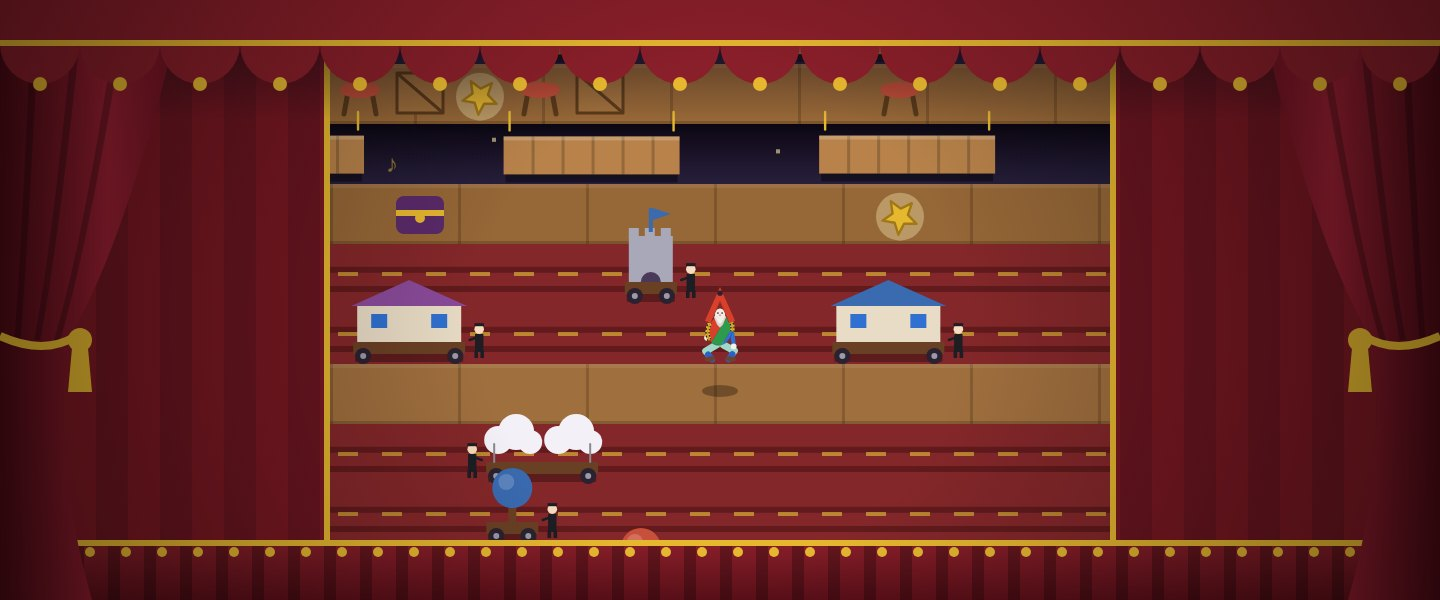
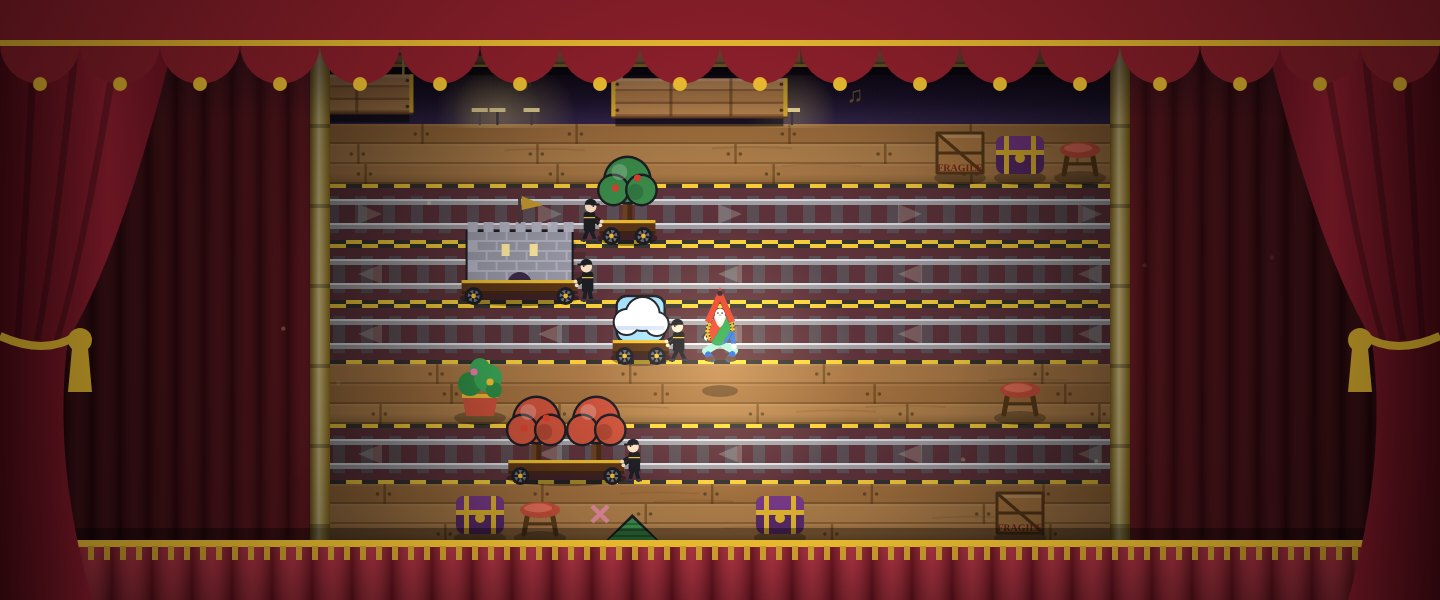
Traversée : nouveaux décors
Claude-Session: https://claude.ai/code/session_01VvPzovv9M4HU3UF5ZMQjNa

diff --git a/traversee.html b/traversee.html
@@ -2412,72 +2412,116 @@ addEventListener('keydown', e => {
   const k = e.key; if (k === 'ArrowLeft' || k === 'q') hop(-1, 0); else if (k === 'ArrowRight' || k === 'd') hop(1, 0); else if (k === 'ArrowDown' || k === 's') hop(0, -1); else if (k === 'ArrowUp' || k === 'z') hop(0, 1);
 });
 // ---------- the stage seen from the flies ----------
+function hsh(a) { a = (a ^ 61) ^ (a >>> 16); a = a + (a << 3); a = a ^ (a >>> 4); a = M.imul(a, 0x27d4eb2d); return ((a ^ (a >>> 15)) >>> 0) / 4294967296 }
 function drawStage() {
   X.save(); X.translate(0, -T);
-  X.fillStyle = '#2a0a12'; X.fillRect(0, 0, W, H);
   const c = cell(), x0 = fx0(), fw = cols() * c;
-  for (let x = 0; x < W; x += 16) { X.fillStyle = x % 32 ? '#6a1520' : '#7a1822'; X.fillRect(x, 0, 16, H) }
+  // wings: heavy velvet curtains with folds
+  for (const side of [0, 1]) {
+    const a = side ? x0 + fw : 0, w = side ? W - a : x0; if (w <= 0) continue;
+    const g = X.createLinearGradient(a, 0, a + w, 0); g.addColorStop(0, side ? '#7a1822' : '#3a0810'); g.addColorStop(1, side ? '#3a0810' : '#7a1822'); X.fillStyle = g; X.fillRect(a, 0, w, H);
+    for (let x = a + 4; x < a + w; x += 14) { const fg = X.createLinearGradient(x, 0, x + 14, 0); fg.addColorStop(0, 'rgba(0,0,0,.28)'); fg.addColorStop(.5, 'rgba(255,120,130,.12)'); fg.addColorStop(1, 'rgba(0,0,0,.28)'); X.fillStyle = fg; X.fillRect(x, 0, 14, H) }
+  }
   if (!PL) { X.restore(); return }
   const r0 = M.floor(camR - (H - baseY()) / c) - 2, r1 = M.ceil(camR + baseY() / c) + 2;
   X.save(); X.beginPath(); X.rect(x0, 0, fw, H); X.clip();
   for (let r = r0; r <= r1; r++) {
-    const L = LN[r], y = rowY(r);
+    const L = LN[r], y = rowY(r), top = y - c;
     if (!L || L.type === 'safe') {
-      X.fillStyle = r % 2 ? '#8a5632' : '#7e4e2c'; X.fillRect(x0, y - c, fw, c);
-      X.fillStyle = 'rgba(0,0,0,.22)'; X.fillRect(x0, y - 1.5, fw, 1.5); for (let x = x0 + (r % 3) * 21; x < x0 + fw; x += 64) X.fillRect(x, y - c, 1.5, c);
-      X.fillStyle = 'rgba(255,255,255,.07)'; X.fillRect(x0, y - c, fw, 2);
+      // stage boards: three planks, joints, nails and spike-tape marks
+      for (let i = 0; i < 3; i++) { const by = top + i * c / 3, h = c / 3; X.fillStyle = ['#94603a', '#8a5632', '#9a663e'][(r + i) % 3]; X.fillRect(x0, by, fw, h); X.fillStyle = 'rgba(255,230,190,.08)'; X.fillRect(x0, by, fw, 1); X.fillStyle = 'rgba(40,20,5,.35)'; X.fillRect(x0, by + h - 1, fw, 1);
+        for (let x = x0 + hsh(r * 7 + i) * 80; x < x0 + fw; x += 70 + hsh(r * 3 + i + x) * 40) { X.fillStyle = 'rgba(40,20,5,.45)'; X.fillRect(x, by, 1.2, h); circ('rgba(30,20,10,.6)', x - 3, by + h / 2, .9); circ('rgba(30,20,10,.6)', x + 3, by + h / 2, .9) } }
+      X.strokeStyle = 'rgba(80,40,15,.18)'; X.lineWidth = .8; for (let i = 0; i < 4; i++) { const gy = top + 4 + hsh(r * 11 + i) * (c - 8), gx = x0 + hsh(r * 13 + i) * fw; X.beginPath(); X.moveTo(gx, gy); X.quadraticCurveTo(gx + 20, gy - 1.5, gx + 40, gy); X.stroke() }
+      if (hsh(r * 5) < .45) { const mx = x0 + (hsh(r * 9) * cols() | 0) * c + c / 2, my = top + c * .5, mk = ['#f2c230', '#3070d0', '#f27ab0', '#2e9a4c'][r % 4]; X.save(); X.globalAlpha = .75; X.strokeStyle = mk; X.lineWidth = 2.2; X.beginPath(); X.moveTo(mx - 4, my - 4); X.lineTo(mx + 4, my + 4); X.moveTo(mx + 4, my - 4); X.lineTo(mx - 4, my + 4); X.stroke(); X.restore() }
+      const sg = X.createLinearGradient(0, y - 5, 0, y); sg.addColorStop(0, 'rgba(0,0,0,0)'); sg.addColorStop(1, 'rgba(0,0,0,.25)'); X.fillStyle = sg; X.fillRect(x0, y - 5, fw, 5);
     } else if (L.type === 'cart') {
-      X.fillStyle = AMB.apronDark; X.fillRect(x0, y - c, fw, c);
-      X.fillStyle = 'rgba(0,0,0,.35)'; X.fillRect(x0, y - c * .62, fw, 3); X.fillRect(x0, y - c * .3, fw, 3);
-      X.fillStyle = 'rgba(230,184,48,.55)'; for (let x = x0 + 4; x < x0 + fw; x += 22) X.fillRect(x, y - c / 2 - 1, 10, 2);
+      // dark wagon track with two steel rails and sleepers
+      X.fillStyle = '#2a2236'; X.fillRect(x0, top, fw, c);
+      X.save(); X.globalAlpha = .35; X.fillStyle = AMB.apronDark; X.fillRect(x0, top, fw, c); X.restore();
+      const off = (L.sp > 0 ? 1 : -1) * ((t * .5) % 14);
+      for (let x = x0 - 14 + off; x < x0 + fw + 14; x += 14) { X.fillStyle = '#3e3448'; X.fillRect(x, top + c * .2, 6, c * .62) }
+      for (const ry of [top + c * .3, top + c * .7]) { X.fillStyle = '#8a8a9a'; X.fillRect(x0, ry - 1.5, fw, 3); X.fillStyle = '#d0d0dc'; X.fillRect(x0, ry - 1.5, fw, 1) }
+      X.fillStyle = '#f2c230'; for (let x = x0; x < x0 + fw; x += 16) { X.fillRect(x, top, 8, 2); X.fillRect(x + 8, y - 2, 8, 2) }
+      X.fillStyle = '#1d1d24'; for (let x = x0 + 8; x < x0 + fw; x += 16) { X.fillRect(x, top, 8, 2); X.fillRect(x - 8, y - 2, 8, 2) }
+      // direction arrows painted on the floor
+      X.save(); X.globalAlpha = .18; X.fillStyle = '#fff'; for (let x = x0 + 20; x < x0 + fw; x += 90) { const d = L.sp > 0 ? 1 : -1; poly('#fff', [x - 6 * d, top + c / 2 - 5, x + 6 * d, top + c / 2, x - 6 * d, top + c / 2 + 5]) } X.restore();
     } else {
-      const g = X.createLinearGradient(0, y - c, 0, y); g.addColorStop(0, '#05030c'); g.addColorStop(1, '#141030'); X.fillStyle = g; X.fillRect(x0, y - c, fw, c);
-      X.fillStyle = 'rgba(255,240,180,.5)'; for (let i = 0; i < 5; i++) { const sx = x0 + ((r * 53 + i * 71) % fw), sy = y - c * .3 - (i % 3) * 7; X.fillRect(sx, sy + M.sin(t * .05 + i) * 1.5, 2, 2) }
-      if (r % 2) { X.save(); X.globalAlpha = .45; X.fillStyle = '#e6b830'; txt('♪', x0 + ((r * 37) % fw), y - 9, 12, '#e6b830', 'center', false); X.restore() }
+      // the orchestra pit: deep, with music stand lamps and rising notes
+      const g = X.createLinearGradient(0, top, 0, y); g.addColorStop(0, '#020108'); g.addColorStop(.6, '#0e0a24'); g.addColorStop(1, '#1c1440'); X.fillStyle = g; X.fillRect(x0, top, fw, c);
+      for (let i = 0; i < 4; i++) { const lx = x0 + ((hsh(r * 17 + i) * fw + 30) % fw), ly = y - 6; X.save(); X.globalAlpha = .22 + M.sin(t * .05 + i + r) * .05; const lg = X.createRadialGradient(lx, ly, 1, lx, ly, 22); lg.addColorStop(0, 'rgba(255,220,140,.9)'); lg.addColorStop(1, 'rgba(255,220,140,0)'); X.fillStyle = lg; X.fillRect(lx - 22, ly - 22, 44, 30); X.restore(); line('#2a2440', 1.2, [lx, ly, lx, ly + 6]); X.fillStyle = '#ffe6a0'; X.fillRect(lx - 4, ly - 2, 8, 2) }
+      for (let i = 0; i < 3; i++) { const k = ((t * .006 + hsh(r * 23 + i)) % 1), nx = x0 + hsh(r * 29 + i) * fw + M.sin(t * .04 + i) * 6; X.save(); X.globalAlpha = (1 - k) * .55; txt(i % 2 ? '♪' : '♫', nx, y - 4 - k * (c - 6), 11, '#e6b830', 'center', false); X.restore() }
+      X.fillStyle = 'rgba(230,184,48,.6)'; X.fillRect(x0, top, fw, 1.5); X.fillStyle = 'rgba(0,0,0,.6)'; X.fillRect(x0, top + 1.5, fw, 4);
     }
   }
-  // act ambiance
   X.save(); X.globalCompositeOperation = 'soft-light'; X.globalAlpha = .45; X.fillStyle = `rgb(${AMB.spot})`; X.fillRect(x0, 0, fw, H); X.restore();
   X.restore();
-  X.strokeStyle = '#e6b830'; X.lineWidth = 3; X.beginPath(); X.moveTo(x0 - 1.5, 0); X.lineTo(x0 - 1.5, H); X.moveTo(x0 + fw + 1.5, 0); X.lineTo(x0 + fw + 1.5, H); X.stroke();
+  // gilded columns framing the stage
+  for (const px of [x0 - 5, x0 + fw + 5]) { const g = X.createLinearGradient(px - 5, 0, px + 5, 0); g.addColorStop(0, '#8a6a1a'); g.addColorStop(.45, '#ffe9a0'); g.addColorStop(1, '#a07a1a'); X.fillStyle = g; X.fillRect(px - 5, 0, 10, H); X.fillStyle = 'rgba(0,0,0,.25)'; for (let yy = (camR * cell()) % 40; yy < H; yy += 40) X.fillRect(px - 5, yy, 10, 2) }
   X.restore();
 }
 function drawCrowd() {}
 function drawValance() {}
 function drawBatten() {}
 function drawProp(x, y, c, k) {
-  if (k % 3 === 0) { X.fillStyle = '#a0703c'; X.fillRect(x - 12, y - 24, 24, 21); X.strokeStyle = '#5a3a1a'; X.lineWidth = 1.5; X.strokeRect(x - 11.5, y - 23.5, 23, 20); X.beginPath(); X.moveTo(x - 11, y - 23); X.lineTo(x + 11, y - 4); X.stroke() }
-  else if (k % 3 === 1) { X.fillStyle = '#5a2a6a'; X.beginPath(); X.roundRect(x - 12, y - 22, 24, 19, 4); X.fill(); X.fillStyle = '#e6b830'; X.fillRect(x - 12, y - 15, 24, 3); circ('#e6b830', x, y - 11, 2.5) }
-  else { line('#5a3a1a', 2.5, [x - 8, y - 3, x - 6, y - 14, x + 6, y - 14, x + 8, y - 3]); X.fillStyle = '#c8503a'; X.beginPath(); X.ellipse(x, y - 15, 10, 4, 0, 0, 6.29); X.fill() }
+  X.fillStyle = 'rgba(0,0,0,.28)'; X.beginPath(); X.ellipse(x, y - 1, 13, 3.5, 0, 0, 6.29); X.fill();
+  const v = k % 5;
+  if (v === 0) { X.fillStyle = '#b07a44'; X.fillRect(x - 12, y - 24, 24, 21); X.fillStyle = 'rgba(255,230,180,.25)'; X.fillRect(x - 12, y - 24, 24, 3); X.strokeStyle = '#5a3a1a'; X.lineWidth = 1.5; X.strokeRect(x - 11.5, y - 23.5, 23, 20); X.beginPath(); X.moveTo(x - 11, y - 23); X.lineTo(x + 11, y - 4); X.moveTo(x - 11, y - 13.5); X.lineTo(x + 11, y - 13.5); X.stroke(); txt('FRAGILE', x, y - 6, 5, '#7a2a1a', 'center', false) }
+  else if (v === 1) { X.fillStyle = '#5a2a6a'; X.beginPath(); X.roundRect(x - 12, y - 22, 24, 19, 4); X.fill(); X.fillStyle = '#7a3a8a'; X.beginPath(); X.roundRect(x - 12, y - 22, 24, 8, [4, 4, 0, 0]); X.fill(); X.fillStyle = '#e6b830'; X.fillRect(x - 12, y - 15, 24, 2.5); X.fillRect(x - 8, y - 22, 2.5, 19); X.fillRect(x + 5.5, y - 22, 2.5, 19); circ('#e6b830', x, y - 11, 2.5) }
+  else if (v === 2) { line('#5a3a1a', 2.5, [x - 8, y - 3, x - 6, y - 14]); line('#5a3a1a', 2.5, [x + 8, y - 3, x + 6, y - 14]); line('#5a3a1a', 1.5, [x - 7, y - 8, x + 7, y - 8]); X.fillStyle = '#c8503a'; X.beginPath(); X.ellipse(x, y - 15, 10, 4, 0, 0, 6.29); X.fill(); X.fillStyle = '#e8705a'; X.beginPath(); X.ellipse(x - 1, y - 16, 7, 2.2, 0, 0, 6.29); X.fill() }
+  else if (v === 3) { X.fillStyle = '#c8503a'; X.beginPath(); X.moveTo(x - 7, y - 2); X.lineTo(x + 7, y - 2); X.lineTo(x + 9, y - 12); X.lineTo(x - 9, y - 12); X.closePath(); X.fill(); X.fillStyle = '#e6b830'; X.fillRect(x - 9, y - 13, 18, 2); for (const [dx, dy, r2] of [[-5, -18, 6], [4, -21, 7], [0, -26, 5], [7, -15, 4]]) circ(dx % 2 ? '#2e8a44' : '#3aa456', x + dx, y + dy, r2); circ('#f27ab0', x - 3, y - 24, 1.8); circ('#f2c230', x + 5, y - 19, 1.8) }
+  else { line('#2a2230', 2, [x, y - 3, x, y - 20]); line('#2a2230', 2, [x - 6, y - 2, x, y - 6, x + 6, y - 2]); X.save(); X.translate(x, y - 22); X.rotate(-.5); X.fillStyle = '#3a3448'; X.fillRect(-5, -5, 12, 10); X.fillStyle = '#ffe9a0'; X.beginPath(); X.ellipse(7, 0, 2.5, 5, 0, 0, 6.29); X.fill(); X.restore() }
 }
 function drawCart(o, y, c, L) {
-  const x = o.x, w = o.len * c;
-  X.fillStyle = 'rgba(0,0,0,.3)'; X.fillRect(x + 3, y - 5, w - 6, 4);
-  // painted flat standing on a rolling platform
-  X.fillStyle = '#6a4024'; X.fillRect(x + 2, y - 11, w - 4, 6);
-  for (const wx of [x + 7, x + w - 7]) { circ('#2a2230', wx, y - 4, 4); circ('#9a9aa8', wx, y - 4, 1.5) }
-  const top = y - c - 10, cx = x + w / 2;
+  const x = o.x, w = o.len * c, cx = x + w / 2, rot = o.x * .12 * (L.sp > 0 ? 1 : -1);
+  X.fillStyle = 'rgba(0,0,0,.35)'; X.beginPath(); X.ellipse(cx, y - 3, w / 2, 4, 0, 0, 6.29); X.fill();
+  // the painted flat (front), held by a brace at the back
   X.save();
-  if (o.deco === 0) { for (let i = 0; i < o.len; i++) { const tx = x + c * (i + .5); X.fillStyle = '#6a4024'; X.fillRect(tx - 2, y - 22, 4, 12); circ(o.k, tx, y - 28, 10); circ('rgba(255,255,255,.18)', tx - 3, y - 31, 4) } }
-  else if (o.deco === 1) { X.fillStyle = '#e9dcc6'; X.fillRect(x + 4, y - 30, w - 8, 19); poly(o.k, [x + 1, y - 29, cx, y - 42, x + w - 1, y - 29]); for (let i = 0; i < o.len; i++) { X.fillStyle = '#3070d0'; X.fillRect(x + c * i + c / 2 - 4, y - 25, 8, 7) } }
-  else if (o.deco === 2) { X.fillStyle = '#a8a8b8'; X.fillRect(x + 4, y - 34, w - 8, 23); for (let bx = x + 4; bx < x + w - 6; bx += 8) X.fillRect(bx, y - 38, 5, 5); X.fillStyle = '#4a3a5a'; X.beginPath(); X.arc(cx, y - 11, 5, M.PI, 0); X.fill(); X.fillStyle = o.k; X.fillRect(cx - 1, y - 48, 2, 12); poly(o.k, [cx + 1, y - 48, cx + 10, y - 45, cx + 1, y - 42]) }
-  else { X.fillStyle = '#f4f0f8'; for (let i = 0; i < o.len; i++) { const tx = x + c * (i + .5); circ('#f4f0f8', tx - 7, y - 22, 7); circ('#f4f0f8', tx + 2, y - 26, 9); circ('#f4f0f8', tx + 9, y - 21, 6) } line('#888', 1, [x + 6, y - 11, x + 6, y - 20]); line('#888', 1, [x + w - 6, y - 11, x + w - 6, y - 20]) }
+  if (o.deco === 0) {
+    for (let i = 0; i < o.len; i++) { const tx = x + c * (i + .5); X.fillStyle = '#6a4024'; X.fillRect(tx - 2.5, y - 24, 5, 14); X.fillStyle = '#4a2a14'; X.fillRect(tx, y - 24, 2.5, 14);
+      for (const [dx, dy, r2, k2] of [[0, -32, 11, o.k], [-7, -27, 7, o.k], [7, -27, 7, o.k]]) { circ('#1d1d24', tx + dx, y + dy, r2 + 1.2); circ(k2, tx + dx, y + dy, r2) }
+      circ('rgba(255,255,255,.22)', tx - 4, y - 36, 4); circ('rgba(0,0,0,.15)', tx + 4, y - 26, 4); if (i % 2 === 0) { circ('#d8402c', tx + 5, y - 33, 1.8); circ('#d8402c', tx - 6, y - 28, 1.8) } }
+  } else if (o.deco === 1) {
+    X.fillStyle = '#1d1d24'; X.fillRect(x + 3, y - 32, w - 6, 23); X.fillStyle = '#efe2c8'; X.fillRect(x + 4, y - 31, w - 8, 21);
+    X.fillStyle = 'rgba(0,0,0,.08)'; for (let by = y - 28; by < y - 10; by += 5) X.fillRect(x + 4, by, w - 8, 1);
+    poly('#1d1d24', [x, y - 30, cx, y - 45, x + w, y - 30]); poly(o.k, [x + 2, y - 31, cx, y - 43, x + w - 2, y - 31]);
+    X.strokeStyle = 'rgba(0,0,0,.25)'; X.lineWidth = 1; for (let i = 1; i < 4; i++) { X.beginPath(); X.moveTo(x + 2 + i * 3, y - 31 - i * 3); X.lineTo(x + w - 2 - i * 3, y - 31 - i * 3); X.stroke() }
+    for (let i = 0; i < o.len; i++) { const wx = x + c * i + c / 2; if (i === 0 && o.len > 1) { X.fillStyle = '#6a4024'; X.fillRect(wx - 4, y - 22, 8, 12); circ('#e6b830', wx + 2, y - 16, 1) } else { X.fillStyle = '#ffe9a0'; X.fillRect(wx - 5, y - 27, 10, 8); X.strokeStyle = '#3a2a1a'; X.lineWidth = 1.2; X.strokeRect(wx - 5, y - 27, 10, 8); X.beginPath(); X.moveTo(wx, y - 27); X.lineTo(wx, y - 19); X.stroke() } }
+  } else if (o.deco === 2) {
+    X.fillStyle = '#1d1d24'; X.fillRect(x + 3, y - 37, w - 6, 28); X.fillStyle = '#b0b0c0'; X.fillRect(x + 4, y - 36, w - 8, 26);
+    X.fillStyle = 'rgba(0,0,0,.14)'; for (let by = y - 36, j = 0; by < y - 10; by += 5, j++) for (let bx = x + 4 + (j % 2) * 5; bx < x + w - 4; bx += 10) X.fillRect(bx, by, 9, 4);
+    for (let bx = x + 4; bx < x + w - 6; bx += 8) { X.fillStyle = '#b0b0c0'; X.fillRect(bx, y - 41, 5, 5) }
+    X.fillStyle = '#3a2a4a'; X.beginPath(); X.arc(cx, y - 10, 6, M.PI, 0); X.fill(); X.fillStyle = '#ffe9a0'; X.fillRect(cx - 9, y - 30, 4, 6); X.fillRect(cx + 5, y - 30, 4, 6);
+    line('#4a3a3a', 1.5, [cx, y - 41, cx, y - 54]); const fl = M.sin(t * .2 + o.x) * 2; poly(o.k, [cx + 1, y - 54, cx + 12, y - 51 + fl, cx + 1, y - 47]);
+  } else {
+    X.fillStyle = '#9fd8f4'; X.beginPath(); X.roundRect(x + 3, y - 34, w - 6, 23, 5); X.fill(); X.strokeStyle = '#1d1d24'; X.lineWidth = 1.2; X.stroke();
+    for (let i = 0; i < o.len; i++) { const tx = x + c * (i + .5); for (const [dx, dy, r2] of [[-7, -21, 6], [1, -25, 8], [8, -20, 5.5]]) { circ('#1d1d24', tx + dx, y + dy, r2 + 1) } for (const [dx, dy, r2] of [[-7, -21, 6], [1, -25, 8], [8, -20, 5.5]]) circ('#fbfaff', tx + dx, y + dy, r2); X.fillStyle = 'rgba(160,180,220,.5)'; X.fillRect(tx - 12, y - 19, 24, 2) }
+    if (o.len > 1) { circ('#f2d860', x + w - 10, y - 29, 4) }
+  }
   X.restore();
-  // the stagehand pushing it
-  const hx = L.sp > 0 ? x - 5 : x + w + 5; X.save(); X.translate(hx, y - 3); X.scale(L.sp > 0 ? .3 : -.3, .3); drawStagehand(); X.restore();
+  // rolling platform with gold trim and spoked wheels
+  X.fillStyle = '#5a3418'; X.fillRect(x + 1, y - 12, w - 2, 7); X.fillStyle = '#e6b830'; X.fillRect(x + 1, y - 12, w - 2, 1.6); X.fillStyle = 'rgba(0,0,0,.3)'; X.fillRect(x + 1, y - 6.5, w - 2, 1.5);
+  for (const wx of [x + 7, x + w - 7]) { circ('#1d1d24', wx, y - 4, 4.5); circ('#6a6a7a', wx, y - 4, 3); X.strokeStyle = '#1d1d24'; X.lineWidth = 1; X.beginPath(); for (let a = 0; a < 3; a++) { const an = rot + a * 1.047; X.moveTo(wx + M.cos(an) * 3, y - 4 + M.sin(an) * 3); X.lineTo(wx - M.cos(an) * 3, y - 4 - M.sin(an) * 3) } X.stroke(); circ('#e6b830', wx, y - 4, 1.2) }
+  const hx = L.sp > 0 ? x - 4 : x + w + 4; X.save(); X.translate(hx, y - 2); X.scale(L.sp > 0 ? .32 : -.32, .32); drawStagehand(o.x); X.restore();
 }
-function drawBag(x, y) { X.fillStyle = '#c8a870'; X.beginPath(); X.moveTo(x - 10, y - 2); X.quadraticCurveTo(x - 13, y - 18, x - 4, y - 22); X.lineTo(x + 4, y - 22); X.quadraticCurveTo(x + 13, y - 18, x + 10, y - 2); X.closePath(); X.fill(); X.fillStyle = '#8a6a4a'; X.fillRect(x - 5, y - 25, 10, 4); txt('kg', x, y - 7, 8, '#6a4a2a', 'center', false) }
-function drawStagehand() {
-  X.fillStyle = '#1d1d24'; X.fillRect(-7, -40, 14, 30); X.fillRect(-8, -12, 6, 12); X.fillRect(2, -12, 6, 12);
-  circ('#f6dcc0', 0, -48, 8); X.fillStyle = '#1d1d24'; X.fillRect(-8, -58, 16, 5); line('#1d1d24', 4, [5, -34, 16, -30]);
+function drawBag(x, y) { X.fillStyle = 'rgba(0,0,0,.28)'; X.beginPath(); X.ellipse(x, y - 1, 11, 3, 0, 0, 6.29); X.fill(); X.fillStyle = '#c8a870'; X.beginPath(); X.moveTo(x - 10, y - 2); X.quadraticCurveTo(x - 13, y - 18, x - 4, y - 22); X.lineTo(x + 4, y - 22); X.quadraticCurveTo(x + 13, y - 18, x + 10, y - 2); X.closePath(); X.fill(); X.fillStyle = 'rgba(0,0,0,.15)'; X.beginPath(); X.moveTo(x + 2, y - 20); X.quadraticCurveTo(x + 11, y - 16, x + 9, y - 3); X.lineTo(x + 3, y - 3); X.fill(); X.fillStyle = '#8a6a4a'; X.fillRect(x - 5, y - 25, 10, 4); line('#6a4a2a', 1, [x - 3, y - 25, x, y - 30, x + 3, y - 25]); txt('10 kg', x, y - 8, 7, '#6a4a2a', 'center', false) }
+function drawStagehand(seed) {
+  const st = M.sin(t * .35 + seed * .1) * 6;
+  line('#1d1d24', 6, [-3, -14, -4 - st, 0]); line('#1d1d24', 6, [3, -14, 4 + st, 0]); X.fillStyle = '#3a3448'; X.fillRect(-9 - st, -2, 9, 4); X.fillRect(st, -2, 9, 4);
+  X.fillStyle = '#1d1d24'; X.beginPath(); X.roundRect(-9, -44, 18, 32, 5); X.fill();
+  line('#1d1d24', 5, [4, -38, 18, -30]); line('#1d1d24', 5, [-2, -36, 16, -24]); circ('#f6dcc0', 19, -29, 3); circ('#f6dcc0', 17, -23, 3);
+  circ('#f6dcc0', 2, -52, 9); circ('#1d1d24', 6, -53, 1.4); X.fillStyle = '#1d1d24'; X.beginPath(); X.arc(2, -55, 9.5, M.PI, 0); X.fill(); X.fillRect(2, -57, 14, 3);
+  X.fillStyle = '#e6b830'; X.fillRect(-9, -36, 18, 2);
 }
 function drawPlank(o, y, c) {
-  const x = o.x, w = o.len * c, bob = M.sin(t * .06 + o.x * .02) * 1.2;
-  X.fillStyle = 'rgba(0,0,0,.4)'; X.fillRect(x + 2, y - 6 + bob, w - 4, 5);
-  X.fillStyle = '#b8824a'; X.fillRect(x + 1, y - c + 6 + bob, w - 2, c - 11);
-  X.fillStyle = 'rgba(0,0,0,.2)'; for (let i = 1; i < o.len * 2; i++) X.fillRect(x + i * c / 2, y - c + 6 + bob, 1.5, c - 11);
-  X.fillStyle = 'rgba(255,255,255,.2)'; X.fillRect(x + 1, y - c + 6 + bob, w - 2, 2);
-  line('#e6b830', 1.2, [x + 4, y - c + 3 + bob, x + 4, y - c - 6]); line('#e6b830', 1.2, [x + w - 4, y - c + 3 + bob, x + w - 4, y - c - 6]);
+  const x = o.x, w = o.len * c, bob = M.sin(t * .06 + o.x * .02) * 1.2, top = y - c + 6 + bob, h = c - 11;
+  X.fillStyle = 'rgba(0,0,0,.5)'; X.fillRect(x + 3, y - 4 + bob, w - 6, 4);
+  line('#c8a870', 1.2, [x + 6, top, x + 6, top - 12]); line('#c8a870', 1.2, [x + w - 6, top, x + w - 6, top - 12]); circ('#e6b830', x + 6, top - 12, 1.5); circ('#e6b830', x + w - 6, top - 12, 1.5);
+  X.fillStyle = '#6a4024'; X.fillRect(x + 1, top + h - 3, w - 2, 4);
+  for (let i = 0; i < 3; i++) { X.fillStyle = ['#c8925a', '#b8824a', '#c08a52'][i]; X.fillRect(x + 1, top + i * h / 3, w - 2, h / 3); X.fillStyle = 'rgba(60,30,10,.35)'; X.fillRect(x + 1, top + (i + 1) * h / 3 - 1, w - 2, 1) }
+  X.fillStyle = 'rgba(255,240,200,.25)'; X.fillRect(x + 1, top, w - 2, 1.5);
+  for (let i = 1; i < o.len; i++) { X.fillStyle = 'rgba(60,30,10,.4)'; X.fillRect(x + i * c, top, 1.5, h) }
+  X.fillStyle = '#e6b830'; X.fillRect(x + 1, top, 2, h); X.fillRect(x + w - 3, top, 2, h);
+  for (const nx of [x + 4, x + w - 4]) for (const ny of [top + 3, top + h - 3]) circ('#5a3a1a', nx, ny, .9);
 }
 function drawGame() {
   if (!PL) return;
@@ -2494,11 +2538,22 @@ function drawGame() {
     if (r === pr) drawPlayer(c);
   }
   X.restore();
+  // a follow spot on the polichinelle and a soft vignette
+  { const px = PL.hop ? PL.hop.fx + (PL.hop.tx - PL.hop.fx) * PL.hop.k : PL.x, py = rowY(PL.hop ? PL.hop.fr + (PL.hop.tr - PL.hop.fr) * PL.hop.k : PL.r) - 16;
+    X.save(); X.globalCompositeOperation = 'lighter'; const sg = X.createRadialGradient(px, py, 4, px, py, 70); sg.addColorStop(0, 'rgba(255,235,180,.16)'); sg.addColorStop(1, 'rgba(255,235,180,0)'); X.fillStyle = sg; X.fillRect(px - 70, py - 70, 140, 140); X.restore();
+    const vg = X.createRadialGradient(W / 2, H * .55, H * .25, W / 2, H * .55, H * .75); vg.addColorStop(0, 'rgba(0,0,0,0)'); vg.addColorStop(1, 'rgba(0,0,0,.4)'); X.fillStyle = vg; X.fillRect(0, 0, W, H) }
+  // dust in the light
+  X.save(); for (let i = 0; i < 14; i++) { const dx = (hsh(i * 31) * W + t * (.1 + hsh(i) * .2)) % W, dy = (hsh(i * 7) * H + M.sin(t * .01 + i) * 20 + H) % H; X.globalAlpha = .15 + M.sin(t * .03 + i) * .1; circ('#fff3c0', dx, dy, 1.1) } X.restore();
   // shade under the score
   { const g = X.createLinearGradient(0, 0, 0, LAND ? 60 : (T > 60 ? 150 : 140 + T)); g.addColorStop(0, 'rgba(20,10,20,.75)'); g.addColorStop(1, 'rgba(20,10,20,0)'); X.fillStyle = g; X.fillRect(0, 0, W, LAND ? 60 : (T > 60 ? 150 : 140 + T)) }
   // the curtain closing in from below
   const cy = rowY(camR - 1.2) + 4;
-  if (cy < H) { const g = X.createLinearGradient(0, cy, 0, cy + 30); g.addColorStop(0, '#8a1f2a'); g.addColorStop(1, '#5a0f18'); X.fillStyle = g; X.fillRect(0, cy, W, H - cy); X.fillStyle = 'rgba(0,0,0,.25)'; for (let x = 0; x < W; x += 18) X.fillRect(x, cy, 6, H - cy); X.fillStyle = '#e6b830'; X.fillRect(0, cy, W, 3); for (let x = 9; x < W; x += 18) circ('#e6b830', x, cy + 6, 2.5) }
+  if (cy < H) {
+    const g = X.createLinearGradient(0, cy, 0, cy + 40); g.addColorStop(0, '#a02434'); g.addColorStop(1, '#5a0f18'); X.fillStyle = g; X.fillRect(0, cy, W, H - cy);
+    for (let x = -4; x < W; x += 20) { const fg = X.createLinearGradient(x, 0, x + 20, 0); fg.addColorStop(0, 'rgba(0,0,0,.3)'); fg.addColorStop(.5, 'rgba(255,140,150,.14)'); fg.addColorStop(1, 'rgba(0,0,0,.3)'); X.fillStyle = fg; X.fillRect(x, cy, 20, H - cy) }
+    X.fillStyle = '#e6b830'; X.fillRect(0, cy, W, 3.5); X.fillStyle = '#c99a2e'; for (let x = 4; x < W; x += 8) { X.fillRect(x, cy + 3, 3, 7 + (x % 16 ? 0 : 3)) }
+    X.fillStyle = 'rgba(0,0,0,.35)'; X.fillRect(0, cy - 6, W, 6);
+  }
   X.restore();
 }
 function drawPlayer(c) {

diff --git a/sw.js b/sw.js
@@ -1,6 +1,6 @@
 // Les Polichinelles - service worker
 // Network first (players always get the latest version when online), cache as a fallback (works offline).
-const CACHE = 'polichinelles-v41';
+const CACHE = 'polichinelles-v42';
 const CORE = ['./', 'index.html', 'course.html', 'envol.html', 'tape.html', 'pyramide.html', 'jongleur.html', 'trampo.html', 'tir.html', 'tracteur.html', 'oeufs.html', 'shots/tracteur.jpg', 'shots/oeufs.jpg', 'loge.html', 'avatar.html', 'pass.html', 'pass.js', 'roue.html', 'defis.html', 'briques.html', 'farandole.html', 'traversee.html', 'shots/briques.jpg', 'shots/farandole.jpg', 'shots/traversee.jpg', 'shots/course.jpg', 'shots/legend1.png', 'shots/legend2.png', 'shots/envol.jpg', 'shots/trampo.jpg', 'shots/tir.jpg', 'shots/tape.jpg', 'shots/pyramide.jpg', 'shots/jongleur.jpg', 'kart.html', 'three.module.min.js', 'manifest.webmanifest', 'icon-192.png', 'icon-512.png', 'icon-180.png'];
 
 self.addEventListener('install', e => {
